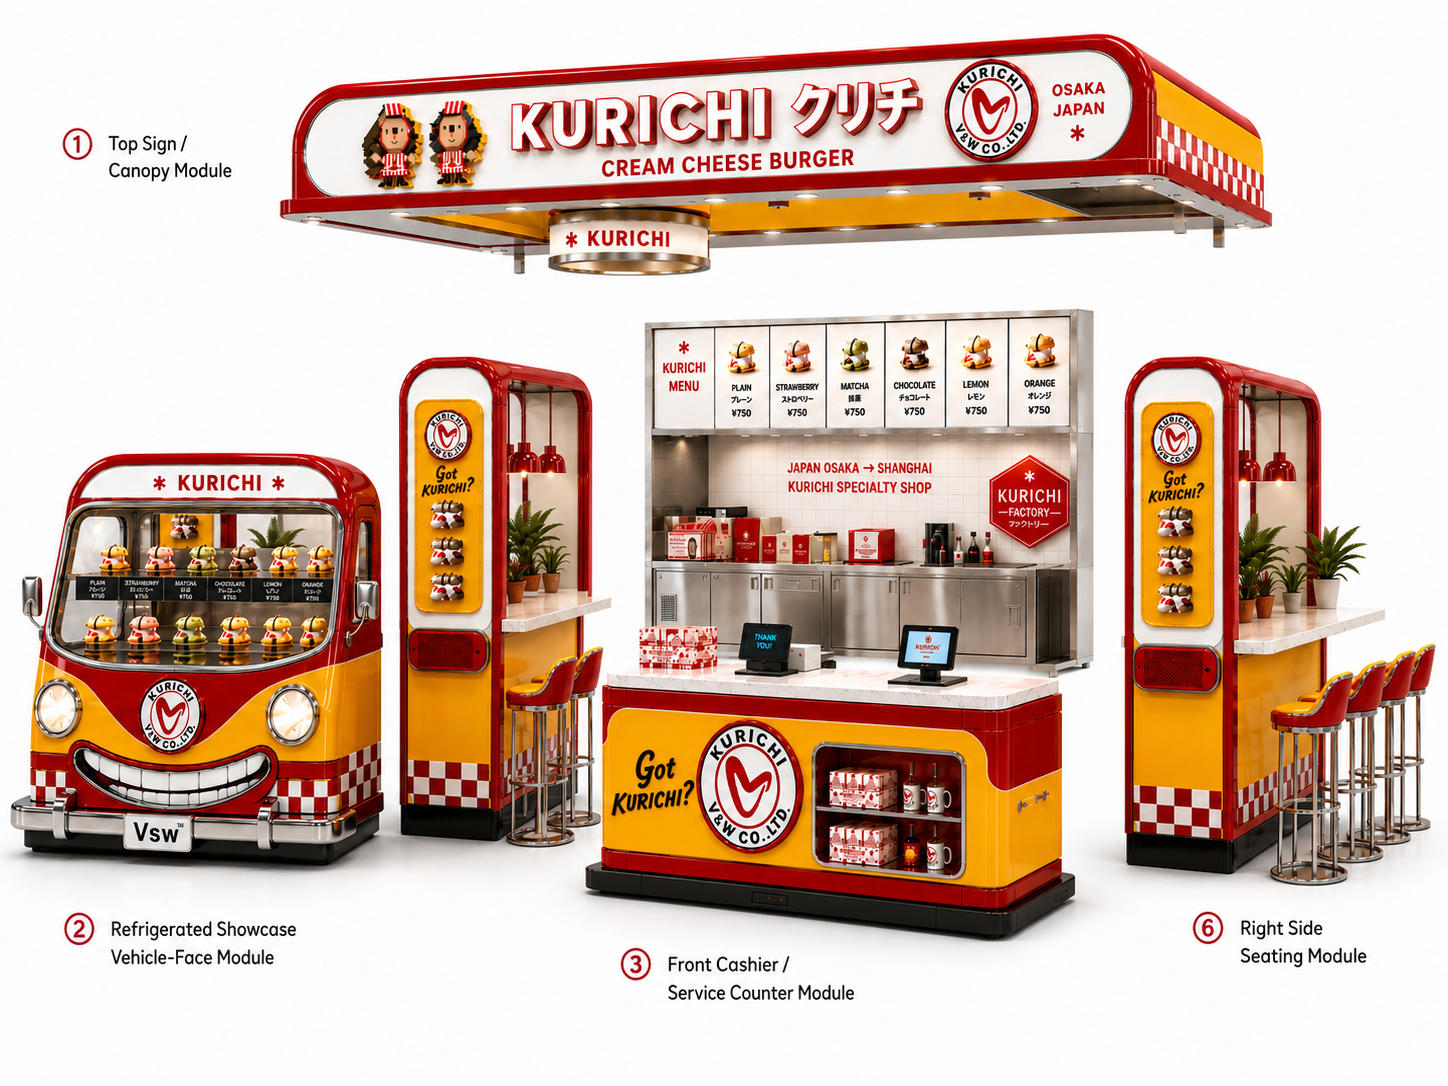
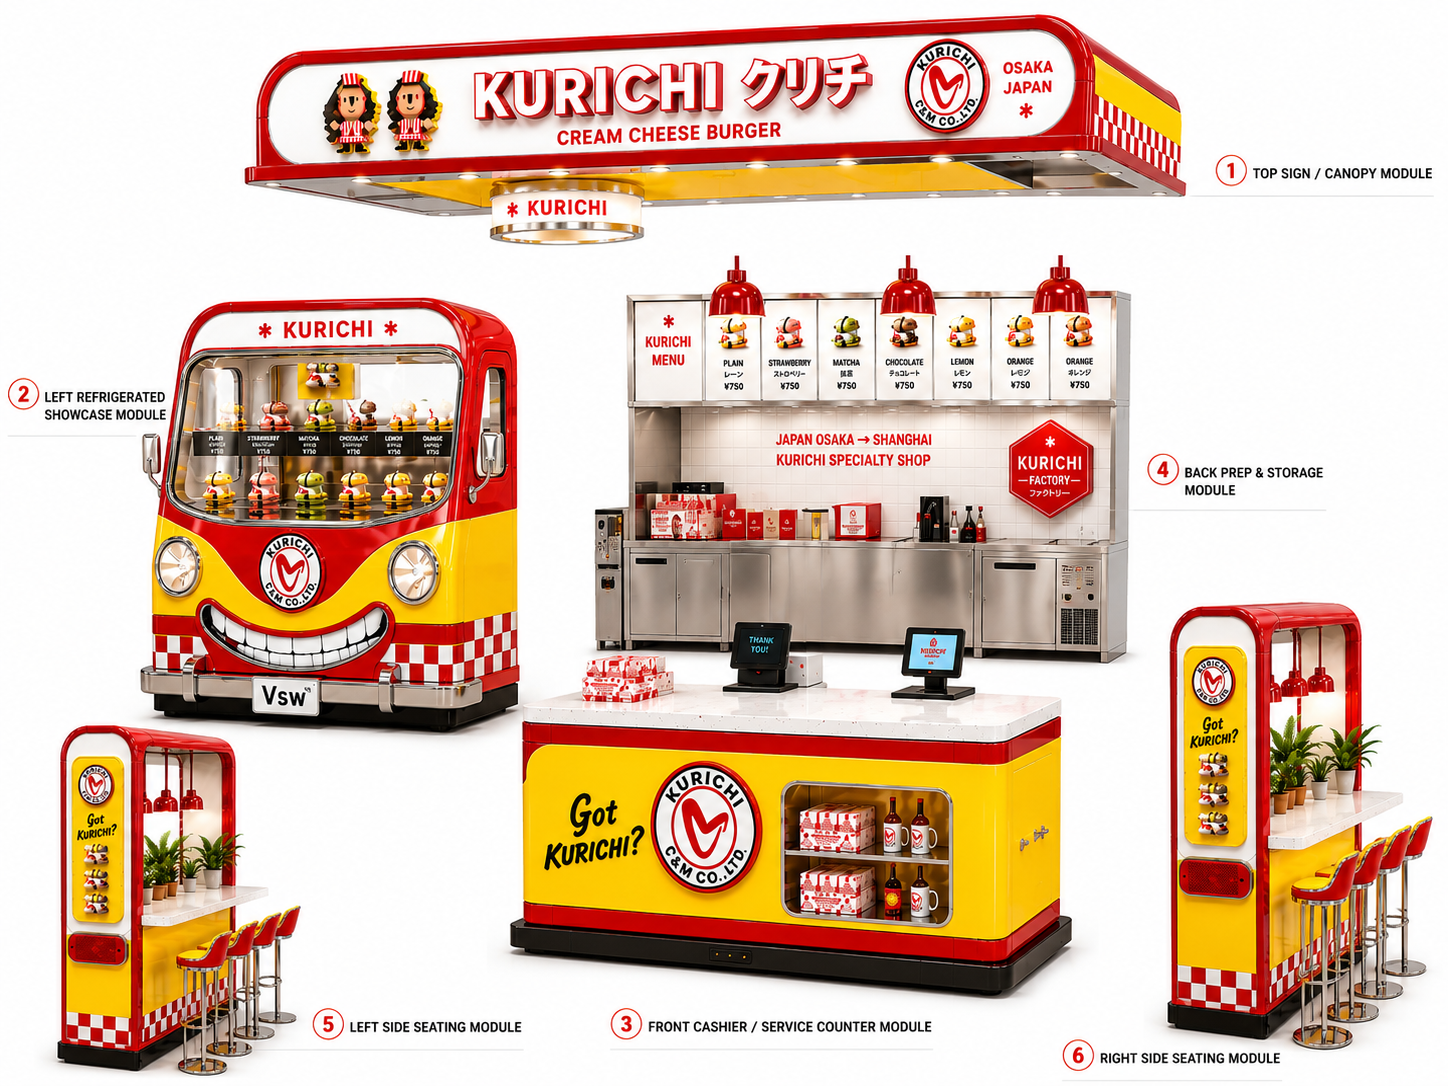
Update shanghai-shop with latest renders + expand modules to 6 (Canopy/Showcase/Counter/BackPrep/L-Seat/R-Seat)

diff --git a/shanghai-shop/index.html b/shanghai-shop/index.html
@@ -587,26 +587,38 @@
       </div>
       <div class="module-card">
         <div class="module-num">2</div>
-        <h4>冷蔵ショーケース<br>（カー・フェイス）</h4>
-        <div class="en">Refrigerated Showcase</div>
+        <h4>左・冷蔵ショーケース<br>（カー・フェイス）</h4>
+        <div class="en">Left Refrigerated Showcase</div>
         <p>クルマのフロントを模した冷蔵ショーケース。商品をディスプレイすると同時に、店舗の顔として記号化される。</p>
       </div>
       <div class="module-card">
         <div class="module-num">3</div>
         <h4>注文・サービスカウンター</h4>
-        <div class="en">Cashier / Counter</div>
+        <div class="en">Front Cashier / Counter</div>
         <p>POS・決済端末・トレイ準備までを一体化したカウンター。電源1口で運用可能、簡易厨房と接続できる。</p>
       </div>
       <div class="module-card">
         <div class="module-num">4</div>
-        <h4>イートインシート</h4>
-        <div class="en">Seating Module</div>
-        <p>ハイチェア＋カウンターのシートユニット。要否に応じて切り離し可能。テイクアウトのみ運用にも対応。</p>
+        <h4>バック厨房・収納</h4>
+        <div class="en">Back Prep & Storage</div>
+        <p>背面の調理・保管ユニット。仕込み・補充・グッズ保管を集約。表側の世界観を保ちながら運営効率を担保する裏動線。</p>
+      </div>
+      <div class="module-card">
+        <div class="module-num">5</div>
+        <h4>左・サイドシート</h4>
+        <div class="en">Left Side Seating</div>
+        <p>ショーケース脇の小型カウンター席。1〜2名向け。狭小スペースでも"滞在型"動線を成立させる。</p>
+      </div>
+      <div class="module-card">
+        <div class="module-num">6</div>
+        <h4>右・サイドシート</h4>
+        <div class="en">Right Side Seating</div>
+        <p>ハイチェア＋カウンターのメイン滞在席。要否に応じて切り離し可能。テイクアウトのみ運用にも対応。</p>
       </div>
     </div>
 
     <p class="section-note">
-      ※ 看板 / ショーケース / カウンター / シートユニットまで同じ世界観で規格化。<br>場所に合わせて組み合わせても、#クリチらしさが崩れない。
+      ※ 看板 / ショーケース / カウンター / バック厨房 / 左右シートまで <strong>6モジュール</strong> 全てが同じ世界観で規格化。<br>場所に合わせて組み合わせても、#クリチらしさが崩れない。
     </p>
   </div>
 </section>
